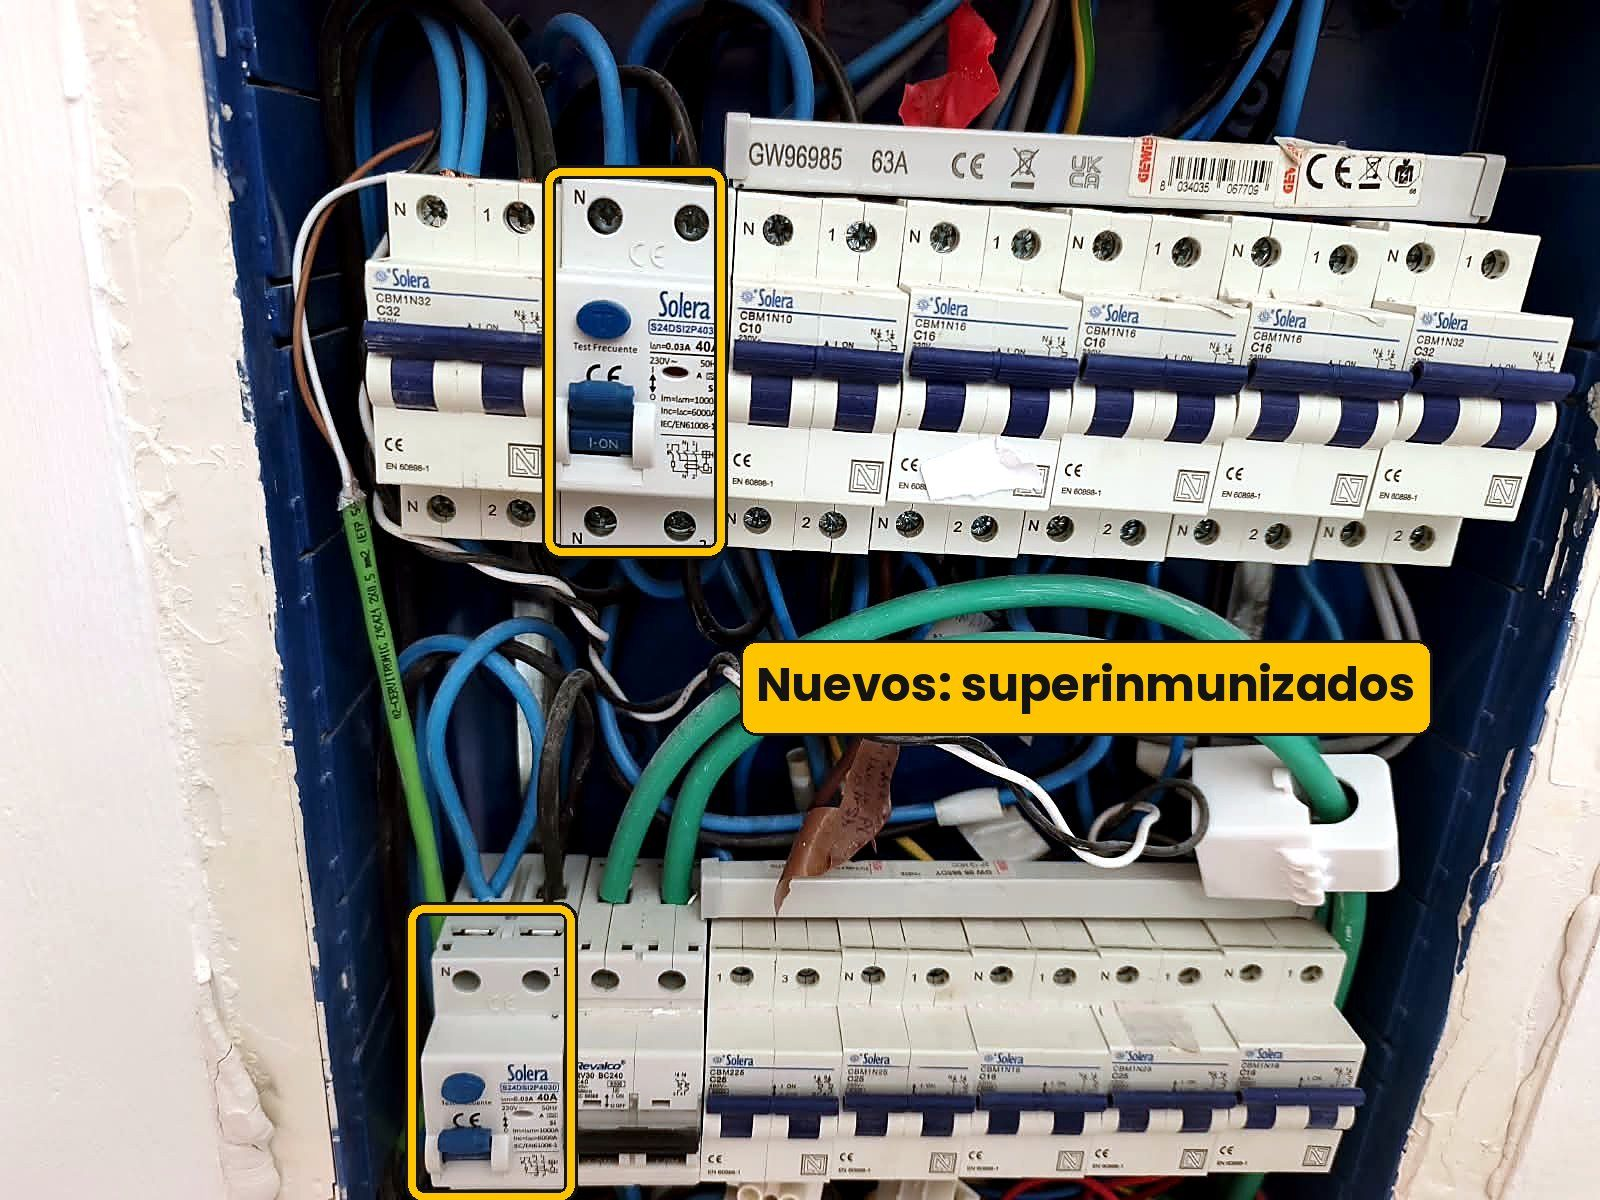
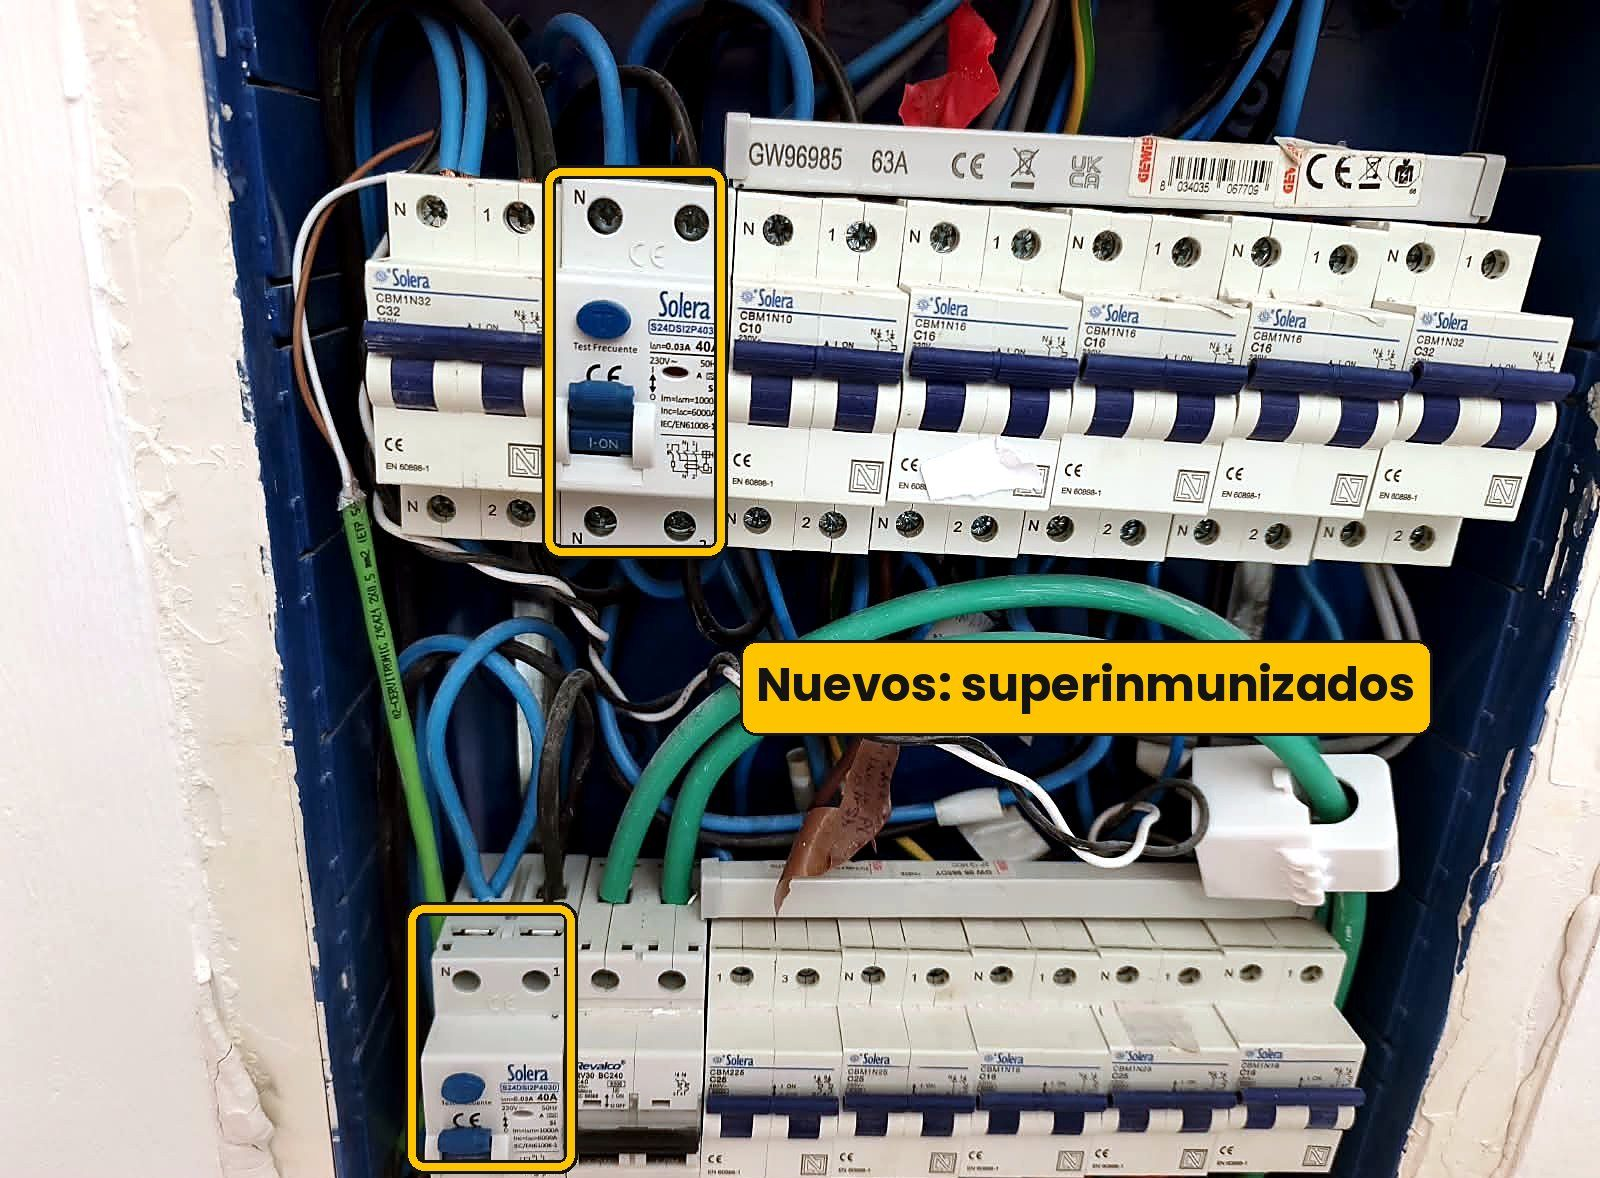
Web generada desde fuente/ (0e5315a)

diff --git a/site/404.html b/site/404.html
@@ -20,7 +20,7 @@
 <link rel="icon" href="/assets/favicon-48.png" type="image/png" sizes="48x48">
 <link rel="apple-touch-icon" href="/assets/apple-touch-icon.png">
 <link rel="preload" href="/assets/fonts/bricolage.woff2" as="font" type="font/woff2" crossorigin>
-<link rel="stylesheet" href="/assets/estilos.css?v=202610180041">
+<link rel="stylesheet" href="/assets/estilos.css?v=202610180042">
 <style>
 /* Menú con desplegables, menú móvil, accesos rápidos, barra inferior y «volver arriba» */
 header.site nav.main{gap:18px}
@@ -261,8 +261,8 @@ var sc=document.currentScript;sc.parentNode.insertBefore(d,sc);})();
   }
 })();
 </script>
-<script src="/assets/senoide.js?v=202610180041" defer></script>
-<script src="/assets/trabajos.js?v=202610180041" defer></script>
+<script src="/assets/senoide.js?v=202610180042" defer></script>
+<script src="/assets/trabajos.js?v=202610180042" defer></script>
 
 </body>
 </html>

diff --git a/site/aviso-legal/index.html b/site/aviso-legal/index.html
@@ -20,7 +20,7 @@
 <link rel="icon" href="/assets/favicon-48.png" type="image/png" sizes="48x48">
 <link rel="apple-touch-icon" href="/assets/apple-touch-icon.png">
 <link rel="preload" href="/assets/fonts/bricolage.woff2" as="font" type="font/woff2" crossorigin>
-<link rel="stylesheet" href="/assets/estilos.css?v=202610180041">
+<link rel="stylesheet" href="/assets/estilos.css?v=202610180042">
 <style>
 /* Menú con desplegables, menú móvil, accesos rápidos, barra inferior y «volver arriba» */
 header.site nav.main{gap:18px}
@@ -279,8 +279,8 @@ var sc=document.currentScript;sc.parentNode.insertBefore(d,sc);})();
   }
 })();
 </script>
-<script src="/assets/senoide.js?v=202610180041" defer></script>
-<script src="/assets/trabajos.js?v=202610180041" defer></script>
+<script src="/assets/senoide.js?v=202610180042" defer></script>
+<script src="/assets/trabajos.js?v=202610180042" defer></script>
 
 </body>
 </html>

diff --git a/site/condiciones-mantenimiento/index.html b/site/condiciones-mantenimiento/index.html
@@ -20,7 +20,7 @@
 <link rel="icon" href="/assets/favicon-48.png" type="image/png" sizes="48x48">
 <link rel="apple-touch-icon" href="/assets/apple-touch-icon.png">
 <link rel="preload" href="/assets/fonts/bricolage.woff2" as="font" type="font/woff2" crossorigin>
-<link rel="stylesheet" href="/assets/estilos.css?v=202610180041">
+<link rel="stylesheet" href="/assets/estilos.css?v=202610180042">
 <style>
 /* Menú con desplegables, menú móvil, accesos rápidos, barra inferior y «volver arriba» */
 header.site nav.main{gap:18px}
@@ -302,8 +302,8 @@ var sc=document.currentScript;sc.parentNode.insertBefore(d,sc);})();
   }
 })();
 </script>
-<script src="/assets/senoide.js?v=202610180041" defer></script>
-<script src="/assets/trabajos.js?v=202610180041" defer></script>
+<script src="/assets/senoide.js?v=202610180042" defer></script>
+<script src="/assets/trabajos.js?v=202610180042" defer></script>
 
 </body>
 </html>

diff --git a/site/consejos/casa-de-verano-revision-antes-de-abrir/index.html b/site/consejos/casa-de-verano-revision-antes-de-abrir/index.html
@@ -20,7 +20,7 @@
 <link rel="icon" href="/assets/favicon-48.png" type="image/png" sizes="48x48">
 <link rel="apple-touch-icon" href="/assets/apple-touch-icon.png">
 <link rel="preload" href="/assets/fonts/bricolage.woff2" as="font" type="font/woff2" crossorigin>
-<link rel="stylesheet" href="/assets/estilos.css?v=202610180041">
+<link rel="stylesheet" href="/assets/estilos.css?v=202610180042">
 <style>
 /* Menú con desplegables, menú móvil, accesos rápidos, barra inferior y «volver arriba» */
 header.site nav.main{gap:18px}
@@ -277,8 +277,8 @@ var sc=document.currentScript;sc.parentNode.insertBefore(d,sc);})();
   }
 })();
 </script>
-<script src="/assets/senoide.js?v=202610180041" defer></script>
-<script src="/assets/trabajos.js?v=202610180041" defer></script>
+<script src="/assets/senoide.js?v=202610180042" defer></script>
+<script src="/assets/trabajos.js?v=202610180042" defer></script>
 
 </body>
 </html>

diff --git a/site/consejos/index.html b/site/consejos/index.html
@@ -20,7 +20,7 @@
 <link rel="icon" href="/assets/favicon-48.png" type="image/png" sizes="48x48">
 <link rel="apple-touch-icon" href="/assets/apple-touch-icon.png">
 <link rel="preload" href="/assets/fonts/bricolage.woff2" as="font" type="font/woff2" crossorigin>
-<link rel="stylesheet" href="/assets/estilos.css?v=202610180041">
+<link rel="stylesheet" href="/assets/estilos.css?v=202610180042">
 <style>
 /* Menú con desplegables, menú móvil, accesos rápidos, barra inferior y «volver arriba» */
 header.site nav.main{gap:18px}
@@ -261,8 +261,8 @@ var sc=document.currentScript;sc.parentNode.insertBefore(d,sc);})();
   }
 })();
 </script>
-<script src="/assets/senoide.js?v=202610180041" defer></script>
-<script src="/assets/trabajos.js?v=202610180041" defer></script>
+<script src="/assets/senoide.js?v=202610180042" defer></script>
+<script src="/assets/trabajos.js?v=202610180042" defer></script>
 
 </body>
 </html>

diff --git a/site/consejos/punto-de-recarga-garaje-comunitario/index.html b/site/consejos/punto-de-recarga-garaje-comunitario/index.html
@@ -20,7 +20,7 @@
 <link rel="icon" href="/assets/favicon-48.png" type="image/png" sizes="48x48">
 <link rel="apple-touch-icon" href="/assets/apple-touch-icon.png">
 <link rel="preload" href="/assets/fonts/bricolage.woff2" as="font" type="font/woff2" crossorigin>
-<link rel="stylesheet" href="/assets/estilos.css?v=202610180041">
+<link rel="stylesheet" href="/assets/estilos.css?v=202610180042">
 <style>
 /* Menú con desplegables, menú móvil, accesos rápidos, barra inferior y «volver arriba» */
 header.site nav.main{gap:18px}
@@ -278,8 +278,8 @@ var sc=document.currentScript;sc.parentNode.insertBefore(d,sc);})();
   }
 })();
 </script>
-<script src="/assets/senoide.js?v=202610180041" defer></script>
-<script src="/assets/trabajos.js?v=202610180041" defer></script>
+<script src="/assets/senoide.js?v=202610180042" defer></script>
+<script src="/assets/trabajos.js?v=202610180042" defer></script>
 
 </body>
 </html>

diff --git a/site/consejos/salta-el-diferencial-que-hacer/index.html b/site/consejos/salta-el-diferencial-que-hacer/index.html
@@ -20,7 +20,7 @@
 <link rel="icon" href="/assets/favicon-48.png" type="image/png" sizes="48x48">
 <link rel="apple-touch-icon" href="/assets/apple-touch-icon.png">
 <link rel="preload" href="/assets/fonts/bricolage.woff2" as="font" type="font/woff2" crossorigin>
-<link rel="stylesheet" href="/assets/estilos.css?v=202610180041">
+<link rel="stylesheet" href="/assets/estilos.css?v=202610180042">
 <style>
 /* Menú con desplegables, menú móvil, accesos rápidos, barra inferior y «volver arriba» */
 header.site nav.main{gap:18px}
@@ -278,8 +278,8 @@ var sc=document.currentScript;sc.parentNode.insertBefore(d,sc);})();
   }
 })();
 </script>
-<script src="/assets/senoide.js?v=202610180041" defer></script>
-<script src="/assets/trabajos.js?v=202610180041" defer></script>
+<script src="/assets/senoide.js?v=202610180042" defer></script>
+<script src="/assets/trabajos.js?v=202610180042" defer></script>
 
 </body>
 </html>

diff --git a/site/cookies/index.html b/site/cookies/index.html
@@ -20,7 +20,7 @@
 <link rel="icon" href="/assets/favicon-48.png" type="image/png" sizes="48x48">
 <link rel="apple-touch-icon" href="/assets/apple-touch-icon.png">
 <link rel="preload" href="/assets/fonts/bricolage.woff2" as="font" type="font/woff2" crossorigin>
-<link rel="stylesheet" href="/assets/estilos.css?v=202610180041">
+<link rel="stylesheet" href="/assets/estilos.css?v=202610180042">
 <style>
 /* Menú con desplegables, menú móvil, accesos rápidos, barra inferior y «volver arriba» */
 header.site nav.main{gap:18px}
@@ -265,8 +265,8 @@ var sc=document.currentScript;sc.parentNode.insertBefore(d,sc);})();
   }
 })();
 </script>
-<script src="/assets/senoide.js?v=202610180041" defer></script>
-<script src="/assets/trabajos.js?v=202610180041" defer></script>
+<script src="/assets/senoide.js?v=202610180042" defer></script>
+<script src="/assets/trabajos.js?v=202610180042" defer></script>
 
 </body>
 </html>

diff --git a/site/index.html b/site/index.html
@@ -20,7 +20,7 @@
 <link rel="icon" href="/assets/favicon-48.png" type="image/png" sizes="48x48">
 <link rel="apple-touch-icon" href="/assets/apple-touch-icon.png">
 <link rel="preload" href="/assets/fonts/bricolage.woff2" as="font" type="font/woff2" crossorigin>
-<link rel="stylesheet" href="/assets/estilos.css?v=202610180041">
+<link rel="stylesheet" href="/assets/estilos.css?v=202610180042">
 <style>
 /* Menú con desplegables, menú móvil, accesos rápidos, barra inferior y «volver arriba» */
 header.site nav.main{gap:18px}
@@ -609,8 +609,8 @@ var sc=document.currentScript;sc.parentNode.insertBefore(d,sc);})();
   }
 })();
 </script>
-<script src="/assets/senoide.js?v=202610180041" defer></script>
-<script src="/assets/trabajos.js?v=202610180041" defer></script>
+<script src="/assets/senoide.js?v=202610180042" defer></script>
+<script src="/assets/trabajos.js?v=202610180042" defer></script>
 
 </body>
 </html>

diff --git a/site/mantenimiento/index.html b/site/mantenimiento/index.html
@@ -20,7 +20,7 @@
 <link rel="icon" href="/assets/favicon-48.png" type="image/png" sizes="48x48">
 <link rel="apple-touch-icon" href="/assets/apple-touch-icon.png">
 <link rel="preload" href="/assets/fonts/bricolage.woff2" as="font" type="font/woff2" crossorigin>
-<link rel="stylesheet" href="/assets/estilos.css?v=202610180041">
+<link rel="stylesheet" href="/assets/estilos.css?v=202610180042">
 <style>
 /* Menú con desplegables, menú móvil, accesos rápidos, barra inferior y «volver arriba» */
 header.site nav.main{gap:18px}
@@ -262,8 +262,8 @@ var sc=document.currentScript;sc.parentNode.insertBefore(d,sc);})();
   }
 })();
 </script>
-<script src="/assets/senoide.js?v=202610180041" defer></script>
-<script src="/assets/trabajos.js?v=202610180041" defer></script>
+<script src="/assets/senoide.js?v=202610180042" defer></script>
+<script src="/assets/trabajos.js?v=202610180042" defer></script>
 
 </body>
 </html>

diff --git a/site/noticias/index.html b/site/noticias/index.html
@@ -20,7 +20,7 @@
 <link rel="icon" href="/assets/favicon-48.png" type="image/png" sizes="48x48">
 <link rel="apple-touch-icon" href="/assets/apple-touch-icon.png">
 <link rel="preload" href="/assets/fonts/bricolage.woff2" as="font" type="font/woff2" crossorigin>
-<link rel="stylesheet" href="/assets/estilos.css?v=202610180041">
+<link rel="stylesheet" href="/assets/estilos.css?v=202610180042">
 <style>
 /* Menú con desplegables, menú móvil, accesos rápidos, barra inferior y «volver arriba» */
 header.site nav.main{gap:18px}
@@ -261,8 +261,8 @@ var sc=document.currentScript;sc.parentNode.insertBefore(d,sc);})();
   }
 })();
 </script>
-<script src="/assets/senoide.js?v=202610180041" defer></script>
-<script src="/assets/trabajos.js?v=202610180041" defer></script>
+<script src="/assets/senoide.js?v=202610180042" defer></script>
+<script src="/assets/trabajos.js?v=202610180042" defer></script>
 
 </body>
 </html>

diff --git a/site/noticias/nuevo-reglamento-suministro-electrico/index.html b/site/noticias/nuevo-reglamento-suministro-electrico/index.html
@@ -20,7 +20,7 @@
 <link rel="icon" href="/assets/favicon-48.png" type="image/png" sizes="48x48">
 <link rel="apple-touch-icon" href="/assets/apple-touch-icon.png">
 <link rel="preload" href="/assets/fonts/bricolage.woff2" as="font" type="font/woff2" crossorigin>
-<link rel="stylesheet" href="/assets/estilos.css?v=202610180041">
+<link rel="stylesheet" href="/assets/estilos.css?v=202610180042">
 <style>
 /* Menú con desplegables, menú móvil, accesos rápidos, barra inferior y «volver arriba» */
 header.site nav.main{gap:18px}
@@ -273,8 +273,8 @@ var sc=document.currentScript;sc.parentNode.insertBefore(d,sc);})();
   }
 })();
 </script>
-<script src="/assets/senoide.js?v=202610180041" defer></script>
-<script src="/assets/trabajos.js?v=202610180041" defer></script>
+<script src="/assets/senoide.js?v=202610180042" defer></script>
+<script src="/assets/trabajos.js?v=202610180042" defer></script>
 
 </body>
 </html>
